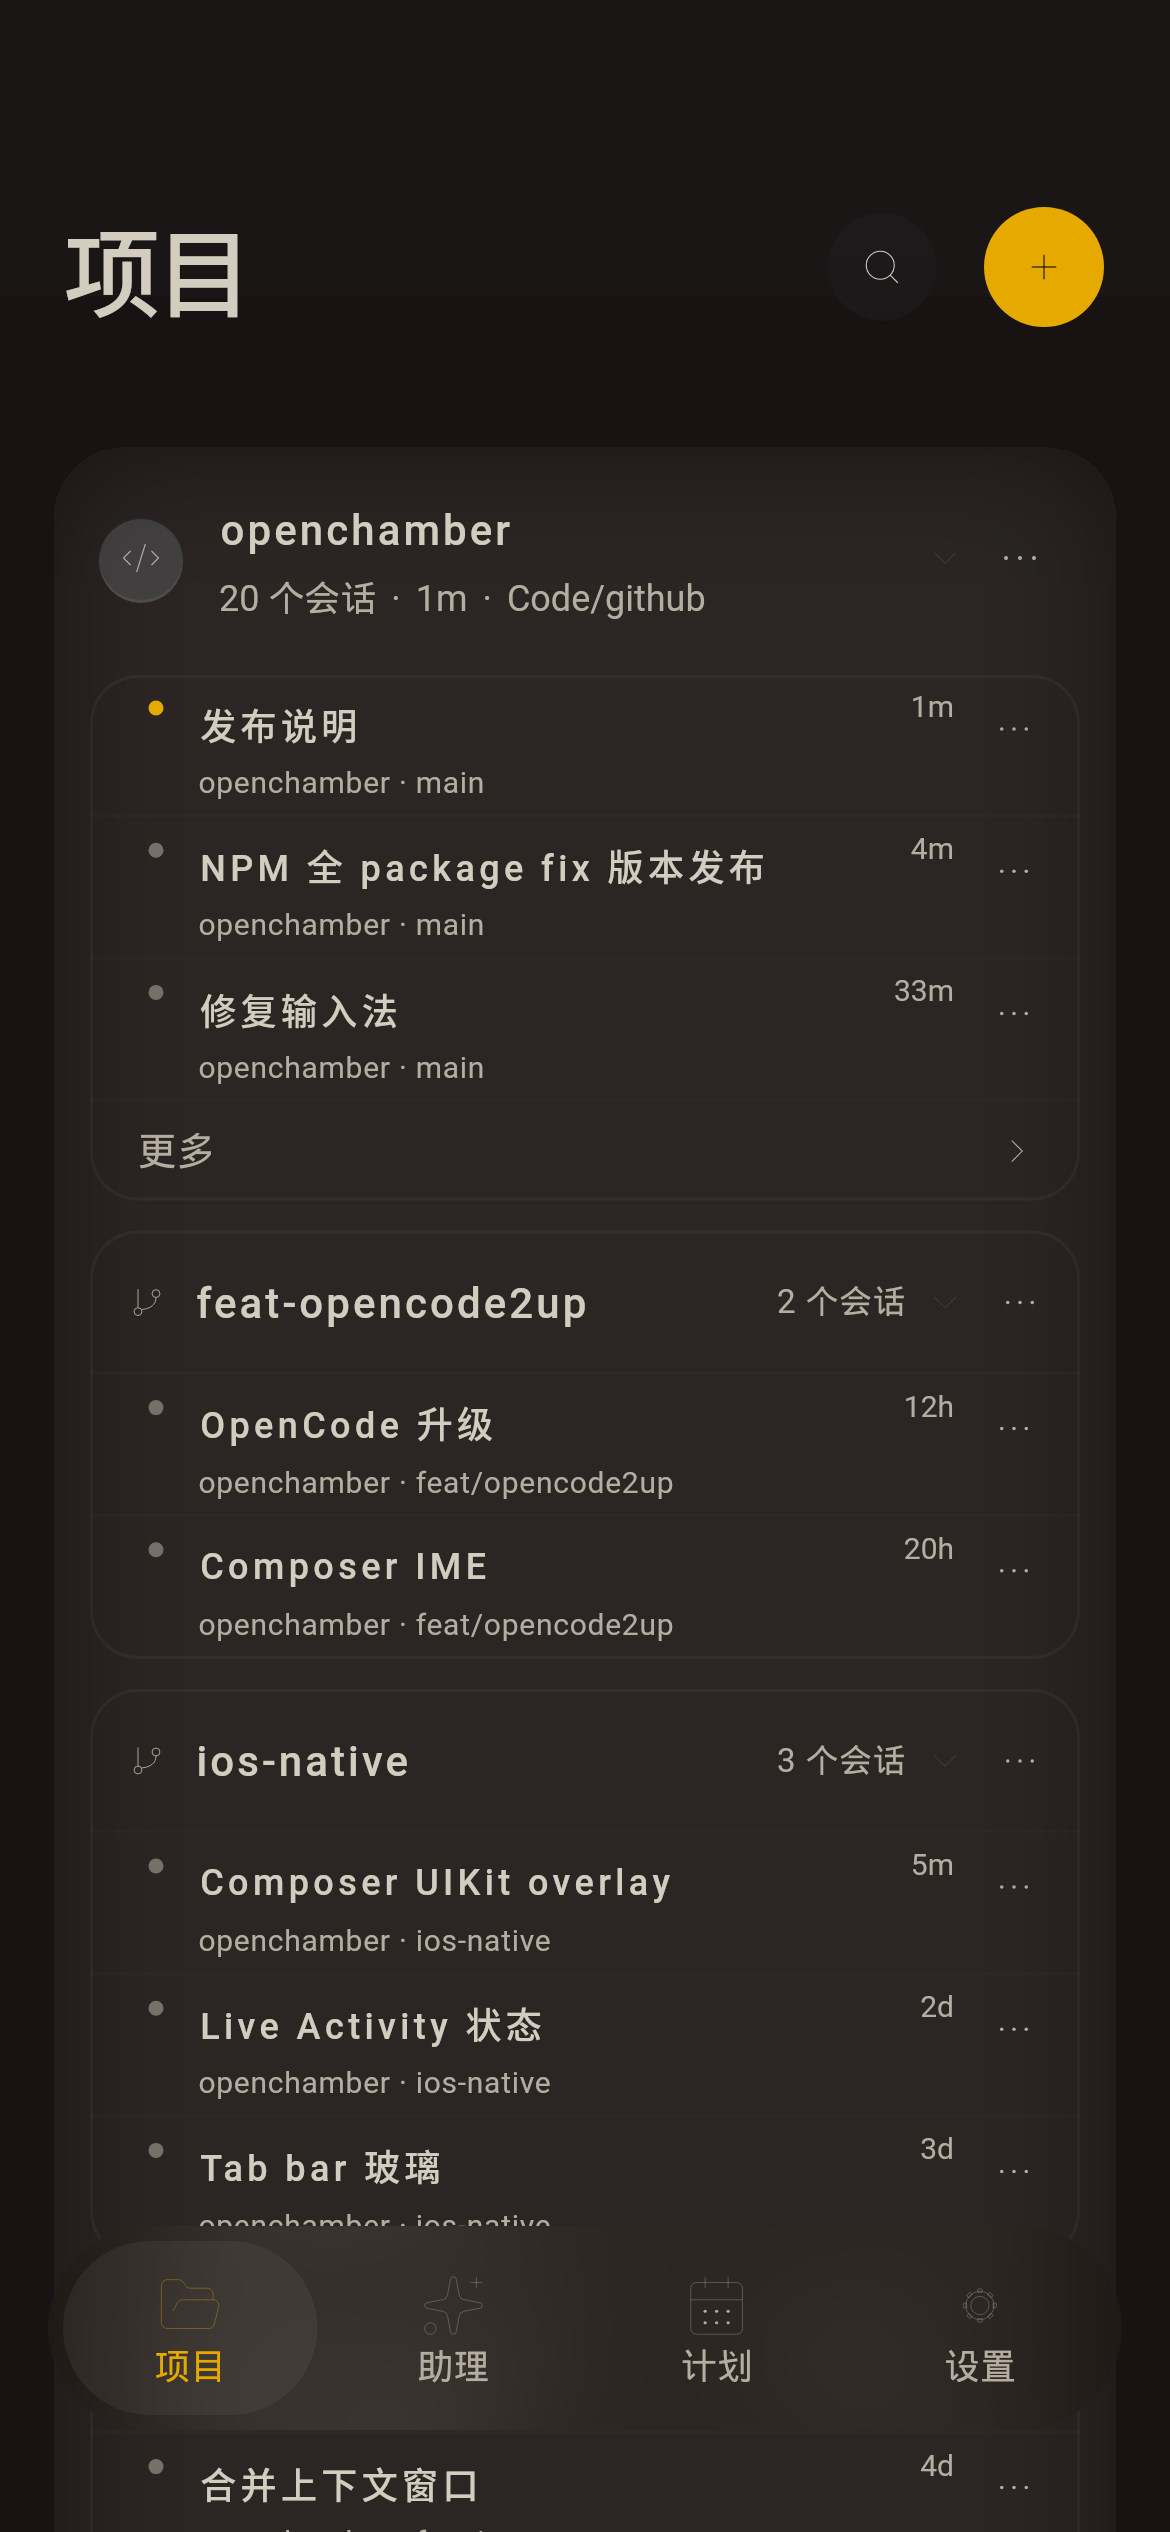
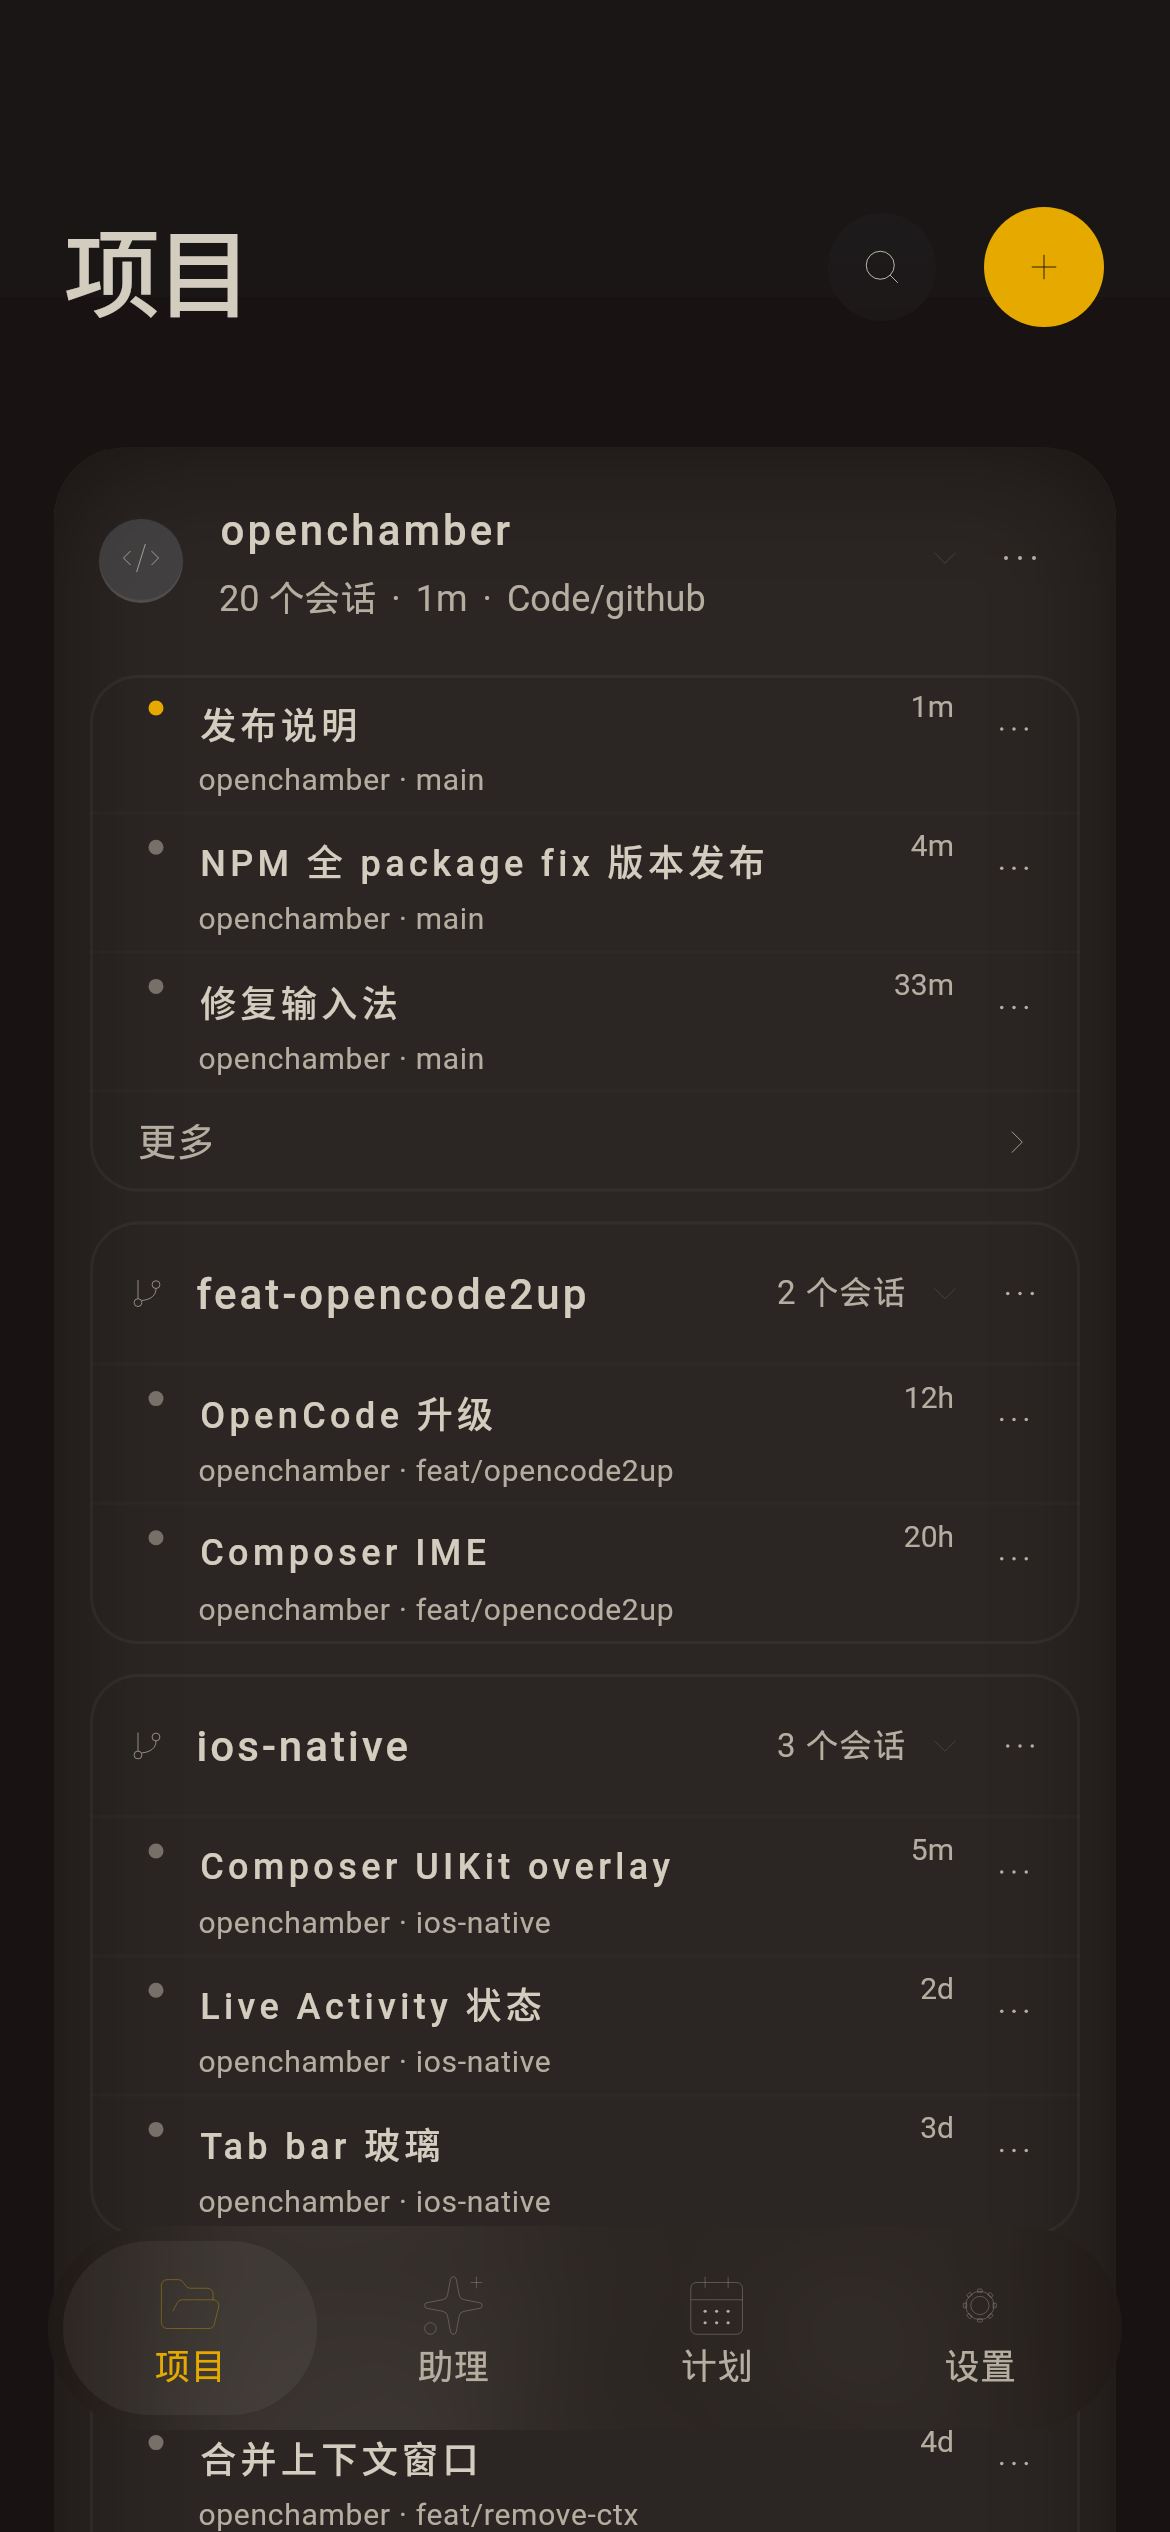
chore(flutter): recapture 02 after wake-0228 session title box
02/scrolled/dark after session title half-lead 3.7→3.2 (row 47.4→46.4).
03/04/05/07 restored (MAE ≤ 0.09). Tracking 1.46 and gap-0.5 stay.
WidgetTester frost ≠ live UIKit glass. Not 精致.

diff --git a/docs/flutter-native-screenshots/README.md b/docs/flutter-native-screenshots/README.md
@@ -629,7 +629,10 @@ undo 3.7 / 1.46, gap **2**, 20+10+20, title↔meta **4**, far
 clone. Small-chrome stroke **0.62 → 0.50** (search / leading
 optical weight; not a hit-box grow). Session title half-lead
 **3.7 → 3.2** toward official 16/12 (row **47.4 → 46.4**); gap-0.5
-stays. Recapture 02 (+scrolled/dark).
+stays. Recapture 02 (+scrolled/dark) after `ca35d4e28`:
+`02=744af68e` / scrolled `816c4b19` / dark `2b9a8856`. MAE vs
+`1e2a6be5a` ~4.08 / 4.53 / 3.34. 03/04/05/07 SAME (`2dbec33b` /
+`94805d37` / `6534068a` / `1db7adf7`).
 **Not 精致.**
 
 | File | Screen |
